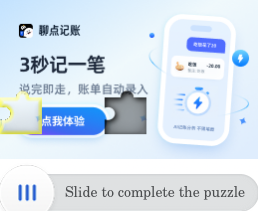
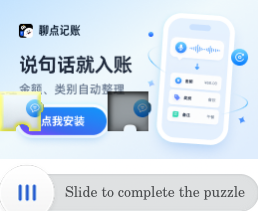
GeeTest solver: bezier drag trajectory + relaxed threshold fallback
- Replaced linear drag with cubic bezier curve (ease-in/out)
- Variable speed: bell-shaped acceleration/deceleration
- Pre-drag hover + micro-corrections at end
- Relaxed threshold fallback when standard V-threshold misses gap
- Reduced min_region_width from 20→10, min_col from 15%→10%
- Added third fallback: v_mean - 0.8*v_std for low-contrast puzzles

diff --git a/src/services/geetest.py b/src/services/geetest.py
@@ -515,9 +515,9 @@ class GeetestSolver:
             peaks.sort(key=lambda x: x[1], reverse=True)
 
             # ── 6. Score candidates ──
-            # Exclude left 15% (puzzle piece area) and narrow regions (<20px)
-            min_col = int(w * 0.15)
-            min_region_width = 20
+            # Exclude leftmost region (puzzle piece area), skip narrow regions
+            min_col = int(w * 0.10)  # 10% — piece is usually within 8-12%
+            min_region_width = 10    # 10px — allow for low-contrast gaps
 
             valid_candidates = []
             for peak_col, peak_strength in peaks:
@@ -557,8 +557,34 @@ class GeetestSolver:
                 )
                 return widest[0]
 
-            log.info("[PX] No gap found: peaks=%d, regions=%d, filtered=%d, min_col=%d",
-                     len(peaks), len(regions), len(filtered_regions), min_col)
+            # ── 8. Relaxed threshold fallback ──
+            # If still no candidates, try with a more permissive threshold
+            relaxed_threshold = v_mean - 0.8 * v_std
+            dark_cols_relaxed = np.where(col_v < relaxed_threshold)[0]
+            if len(dark_cols_relaxed) >= 5:
+                # Rebuild regions
+                relaxed_regions = []
+                s = dark_cols_relaxed[0]
+                for i in range(1, len(dark_cols_relaxed)):
+                    if dark_cols_relaxed[i] - dark_cols_relaxed[i-1] > 5:
+                        relaxed_regions.append((int(s), int(dark_cols_relaxed[i-1])))
+                        s = dark_cols_relaxed[i]
+                relaxed_regions.append((int(s), int(dark_cols_relaxed[-1])))
+
+                # Find widest region right of piece area
+                valid_relaxed = [(s, e) for s, e in relaxed_regions
+                                 if s >= min_col and (e - s) >= min_region_width]
+                if valid_relaxed:
+                    widest_r = max(valid_relaxed, key=lambda r: r[1] - r[0])
+                    log.info(
+                        "Pixel gap detection (relaxed threshold=%.1f): gap at col %d "
+                        "(widest region %d-%d, width=%d)",
+                        relaxed_threshold, widest_r[0], widest_r[0], widest_r[1],
+                        widest_r[1] - widest_r[0],
+                    )
+                    return widest_r[0]
+
+            log.info("Pixel gap detection: no gap found")
             return None
 
         except Exception as e:
@@ -674,13 +700,15 @@ class GeetestSolver:
     ) -> None:
         """Drag the GeeTest slider button by the computed pixel offset.
 
+        Uses a cubic bezier curve with variable-speed micro-steps for
+        human-like movement that avoids server-side bot detection.
+
         Works in the challenge iframe if available, otherwise falls back
-        to the main page. Finds the slider handle element and performs
-        a human-like drag gesture.
+        to the main page.
         """
         target = challenge_frame if challenge_frame else page
 
-        # Locate the slider button
+        # ── 1. Locate the slider button ──
         slider_selectors = [
             ".geetest_slider_button",
             ".gt_slider_knob",
@@ -700,7 +728,7 @@ class GeetestSolver:
         if slider_handle is None:
             raise RuntimeError("Could not find GeeTest slider button")
 
-        # Get the slider dimensions and starting position
+        # ── 2. Get start / end positions ──
         box = await slider_handle.bounding_box()
         if box is None:
             raise RuntimeError("Could not get slider bounding box")
@@ -711,40 +739,97 @@ class GeetestSolver:
 
         log.info(
             "Dragging slider from (%.0f, %.0f) to (%.0f, %.0f) — %d px",
-            start_x,
-            start_y,
-            end_x,
-            start_y,
-            drag_pixels,
+            start_x, start_y, end_x, start_y, drag_pixels,
         )
 
-        # Perform a human-like drag with multiple steps
-        await page.mouse.move(start_x, start_y)
-        await asyncio.sleep(0.1)
+        # ── 3. Pre-drag hover ──
+        await page.mouse.move(
+            start_x + random_uniform(-3, 3),
+            start_y + random_uniform(-3, 3),
+        )
+        await asyncio.sleep(random_uniform(0.15, 0.35))
         await page.mouse.down()
-        await asyncio.sleep(0.05)
+        await asyncio.sleep(random_uniform(0.04, 0.09))
 
-        # Smooth drag: move in small steps with slight jitter
-        steps = max(8, min(30, drag_pixels // 5))
-        step_size = drag_pixels / steps
-        for i in range(1, steps + 1):
-            progress = i / steps
-            # Add slight sine-wave jitter for human-like motion
-            import math
+        # ── 4. Bezier curve path ──
+        # Use a cubic bezier with two control points.
+        # Control points create: ease-in → accelerate → ease-out
+        import math
 
-            jitter = math.sin(progress * math.pi * 2) * 2
-            current_x = start_x + step_size * i + jitter
-            await page.mouse.move(
-                current_x,
-                start_y + random_uniform(-1, 1),
-            )
-            await asyncio.sleep(random_uniform(0.008, 0.025))
+        num_steps = max(12, min(40, drag_pixels // 3))
 
-        await asyncio.sleep(random_uniform(0.1, 0.2))
+        # Control points — tweaked for natural look
+        cp1_x = start_x + drag_pixels * random_uniform(0.15, 0.30)
+        cp1_y = start_y + random_uniform(-6, -2)
+        cp2_x = start_x + drag_pixels * random_uniform(0.65, 0.85)
+        cp2_y = start_y + random_uniform(2, 7)
+
+        # Variable speed: humans move faster in the middle, slower at ends
+        # Build a speed curve with acceleration + deceleration
+        speed_pattern = []
+        for i in range(num_steps):
+            t = i / (num_steps - 1)
+            # Bell-shaped speed: slow start, fast middle, slow end
+            speed = math.sin(t * math.pi)
+            # Add some randomness to each step
+            speed *= random_uniform(0.85, 1.15)
+            speed_pattern.append(speed)
+
+        # Normalise so sum of delays = total_time
+        total_time = random_uniform(0.35, 0.65)  # total drag time
+        inv_speeds = [1.0 / max(s, 0.01) for s in speed_pattern]
+        scale = total_time / sum(inv_speeds)
+        step_delays = [s * scale for s in inv_speeds]
+
+        # Previous position for velocity calculation
+        prev_x, prev_y = start_x, start_y
+
+        for i in range(num_steps):
+            t = (i + 1) / num_steps  # 0..1 progress
+
+            # Cubic bezier evaluation
+            mt = 1.0 - t
+            x = (mt**3) * start_x \
+                + 3 * (mt**2) * t * cp1_x \
+                + 3 * mt * (t**2) * cp2_x \
+                + (t**3) * end_x
+            y = (mt**3) * start_y \
+                + 3 * (mt**2) * t * cp1_y \
+                + 3 * mt * (t**2) * cp2_y \
+                + (t**3) * start_y
+
+            # Add natural wobble (small sine vertical oscillation)
+            wobble = math.sin(t * math.pi * 4) * random_uniform(0.5, 1.5)
+            y += wobble
+
+            # Add slight horizontal noise
+            x += random_uniform(-0.3, 0.3)
+
+            # Compute instantaneous velocity (px/step) for logging
+            dx = x - prev_x
+            dy = y - prev_y
+            vel = math.sqrt(dx**2 + dy**2)
+            prev_x, prev_y = x, y
+
+            await page.mouse.move(x, y)
+            await asyncio.sleep(step_delays[i])
+
+        # ── 5. Micro-correction at end (humans rarely stop exactly) ──
+        overshoot_x = end_x + random_uniform(-2, 2)
+        overshoot_y = start_y + random_uniform(-0.5, 0.5)
+        await page.mouse.move(overshoot_x, overshoot_y)
+        await asyncio.sleep(random_uniform(0.03, 0.08))
+
+        # Final settle on target
+        await page.mouse.move(end_x, start_y + random_uniform(-0.5, 0.5))
+        await asyncio.sleep(random_uniform(0.08, 0.18))
+
+        # ── 6. Release ──
         await page.mouse.up()
-        log.info("Slider drag complete")
+        log.info("Slider drag complete (%d px, %d steps, %.2fs)",
+                 drag_pixels, num_steps, total_time)
 
-        # Wait for GeeTest to validate the slide
+        # Wait for GeeTest server validation
         await asyncio.sleep(2)
 
     async def _extract_tokens(self, page: Any) -> dict[str, str]:

diff --git a/scripts/find_geetest_v3.py b/scripts/find_geetest_v3.py
@@ -1,0 +1,141 @@
+"""Find a real GeeTest v3 integration by probing known public demos."""
+from __future__ import annotations
+
+import asyncio
+import logging
+import sys
+from pathlib import Path
+
+sys.path.insert(0, str(Path(__file__).parent.parent))
+
+from src.services.geetest import GeetestSolver
+from src.core.config import load_config
+
+logging.basicConfig(level=logging.INFO, format="%(asctime)s %(levelname)s %(name)s: %(message)s")
+log = logging.getLogger("find_geetest")
+
+# Sites known to potentially use GeeTest v3
+TARGETS = [
+    # Capsolver GeeTest demo
+    {
+        "name": "capsolver-geetest",
+        "url": "https://docs.capsolver.com/guide/recognition/GeetestTaskProxyless.html",
+        "trigger": "geetest",
+    },
+    # Anti-captcha GeeTest demo
+    {
+        "name": "anticaptcha-geetest",
+        "url": "https://anti-captcha.com/apidoc/task-types/GeeTestTaskProxyless",
+        "trigger": "geetest",
+    },
+    # Some Chinese travel sites that historically used GeeTest v3
+    {
+        "name": "ctrip",
+        "url": "https://passport.ctrip.com/user/login",
+        "trigger": ".geetest",
+    },
+    # Official but older demo
+    {
+        "name": "geetest-old-demo",
+        "url": "https://www.geetest.com/en/demo/gt",
+        "trigger": "geetest",
+    },
+]
+
+
+async def probe(solver: GeetestSolver, target: dict) -> dict:
+    """Probe a single site for GeeTest v3."""
+    result = {"name": target["name"], "url": target["url"], "status": "unknown", "details": {}}
+    browser = solver._browser
+    if not browser:
+        result["status"] = "error"
+        result["details"]["error"] = "No browser"
+        return result
+
+    ctx = await browser.new_context(viewport={"width": 1920, "height": 1080})
+    page = await ctx.new_page()
+
+    try:
+        log.info("Probing %s: %s", target["name"], target["url"])
+        await page.goto(target["url"], wait_until="domcontentloaded", timeout=30000)
+        await asyncio.sleep(3)
+
+        info = await page.evaluate("""() => {
+            const i = {};
+            // Check for v3 indicators
+            i.has_initGeetest = typeof window.initGeetest === 'function';
+            i.captchaObj = typeof window.captchaObj;
+            i.geetest_elements = [...document.querySelectorAll('[class*=\"geetest\"]')].length;
+            i.gt_elements = [...document.querySelectorAll('[class*=\"gt_\"]')].length;
+            i.iframes = document.querySelectorAll('iframe').length;
+            i.gt3_scripts = [...document.scripts]
+                .map(s => s.src)
+                .filter(s => s.includes('geetest') && !s.includes('gt4'));
+            i.gt4_scripts = [...document.scripts]
+                .map(s => s.src)
+                .filter(s => s.includes('gt4'));
+            i.has_geetest_v3_api = typeof window.geetest !== 'undefined' 
+                || typeof window.GeeTest !== 'undefined';
+            // Check for GeeTest canvas area
+            i.canvas_geetest = [...document.querySelectorAll('canvas')]
+                .filter(c => c.className.includes('geetest')).length;
+            return i;
+        }""")
+
+        result["details"] = info
+        if info["gt3_scripts"] or info["has_initGeetest"] or info["geetest_elements"] > 5:
+            result["status"] = "geetest_v3_found"
+        elif info["gt4_scripts"]:
+            result["status"] = "geetest_v4_found"
+        else:
+            result["status"] = "no_geetest"
+
+        log.info("  → %s: %s", result["status"], info)
+        await page.screenshot(full_page=False, path=str(Path("test_screenshots") / f"probe_{target['name']}.png"))
+
+    except Exception as e:
+        result["status"] = "error"
+        result["details"]["error"] = str(e)[:200]
+        log.info("  → Error: %s", e)
+
+    finally:
+        await ctx.close()
+
+    return result
+
+
+async def main():
+    cfg = load_config()
+    solver = GeetestSolver(cfg)
+    await solver.start()
+
+    try:
+        results = await asyncio.gather(*[probe(solver, t) for t in TARGETS])
+
+        print("\n" + "=" * 60)
+        print("GeeTest v3 Site Probe Results")
+        print("=" * 60)
+        for r in results:
+            status_icon = {"geetest_v3_found": "✅ v3", "geetest_v4_found": "✅ v4", 
+                          "no_geetest": "❌ none", "unknown": "❓", "error": "⚠️ error"}.get(r["status"], "❓")
+            print(f"\n{status_icon} {r['name']}: {r['url']}")
+            d = r["details"]
+            if isinstance(d, dict):
+                print(f"   initGeetest: {d.get('has_initGeetest')}, captchaObj: {d.get('captchaObj')}")
+                print(f"   geetest_elements: {d.get('geetest_elements')}, gt_elements: {d.get('gt_elements')}")
+                print(f"   v3 scripts: {d.get('gt3_scripts', [])[:2]}")
+                print(f"   v4 scripts: {d.get('gt4_scripts', [])[:2]}")
+                print(f"   iframes: {d.get('iframes')}, canvas: {d.get('canvas_geetest')}")
+
+        v3_sites = [r for r in results if r["status"] == "geetest_v3_found"]
+        if v3_sites:
+            print(f"\n🎯 Found {len(v3_sites)} GeeTest v3 site(s) to test against!")
+        else:
+            print("\n⚠️ No GeeTest v3 sites found via these probes")
+
+    finally:
+        await solver.stop()
+
+
+if __name__ == "__main__":
+    asyncio.run(main())